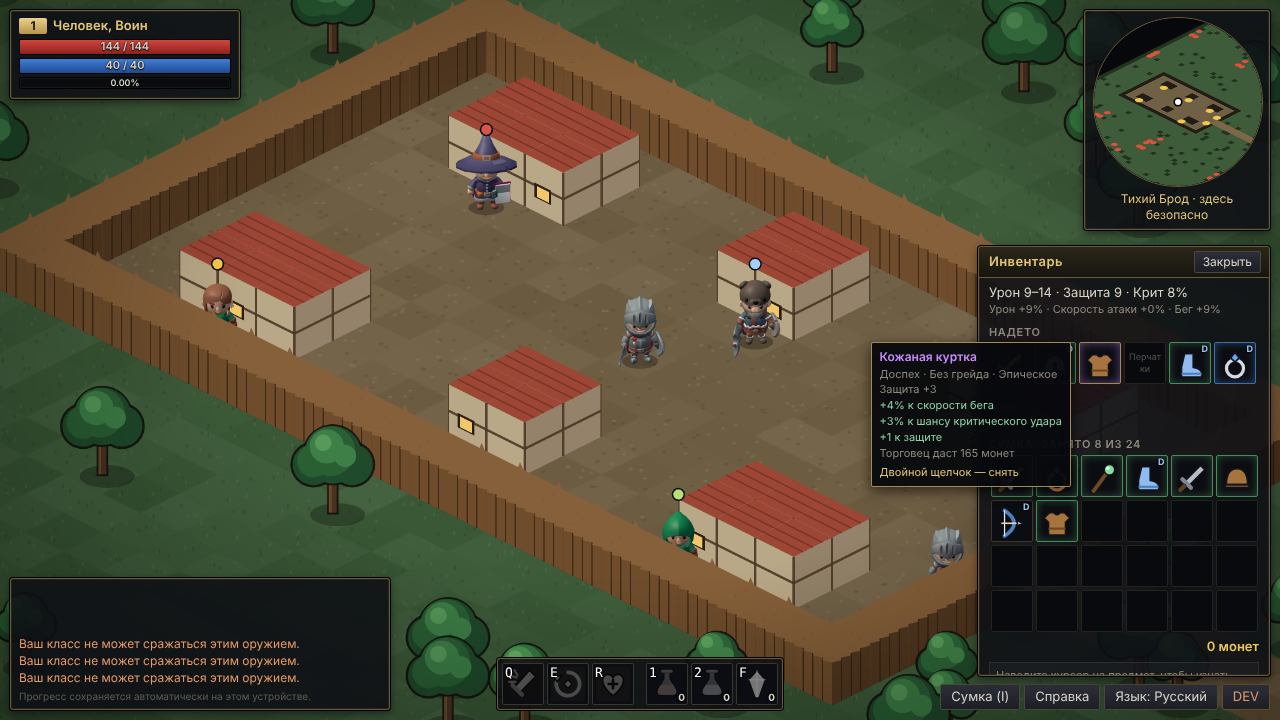
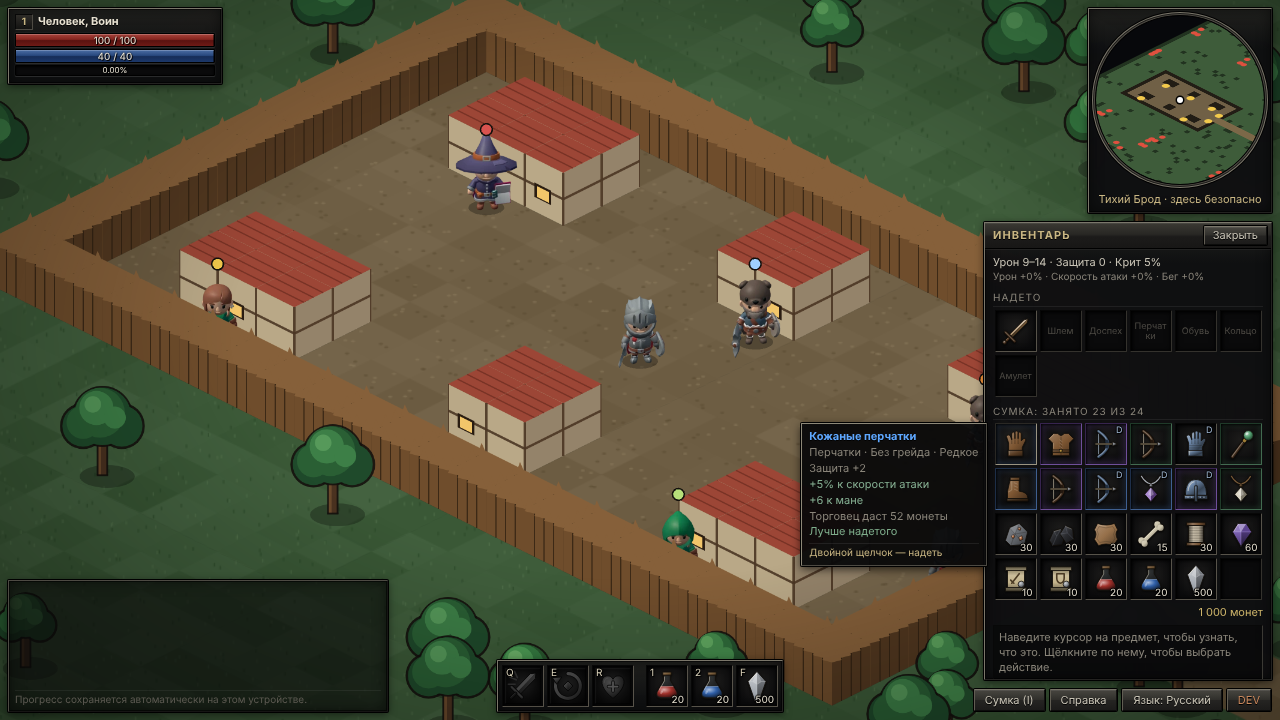
Document the reworked combat and world; refresh screenshots
Claude-Session: https://claude.ai/code/session_01VPfyaqrToSW6rDgFzHRfny

diff --git a/src/sim/balance.ts b/src/sim/balance.ts
@@ -13,7 +13,7 @@ export const WORLD_SEED = 20261;
 export const WORLD_WIDTH = 124;
 export const WORLD_HEIGHT = 84;
 /** How many monsters live in each region of the open world. */
-export const REGION_MONSTERS = { pasture: 40, moor: 46, hollow: 42, thicket: 34 } as const;
+export const REGION_MONSTERS = { pasture: 40, moor: 46, hollow: 42, thicket: 28 } as const;
 /** No two monsters make their home closer than this. */
 export const MONSTER_SPACING = 2.4;
 export const DUNGEON_SIZE = 24;

diff --git a/docs/GDD.md b/docs/GDD.md
@@ -42,14 +42,26 @@
     надетые шлем, доспех и обувь.
 - **Охота на монстров — центр игры.** Опыт, монеты, ресурсы и вещи приходят с монстров,
   поэтому бить их должно быть приятно и опасно:
-  - Звери живут **стаями** (волки по трое, кабаны по двое). Заметивший героя зовёт стаю
-    и всех, кто рядом; откликнувшиеся дальше тревогу не передают. Одна стая — посильно,
-    две сразу — на грани смерти.
-  - Обычный удар монстра не сбивает; сбивает только **критический** (кроме матёрых).
-  - Здоровье вне деревни восстанавливается медленно: между стаями нужны зелья или отдых.
+  - **Обычный удар бьёт одну цель** — ближайшую в секторе. Толпу рубят только умения
+    по площади. Пока герой бьёт, он идёт вдвое медленнее: либо драться, либо бежать.
+  - **Монстр преследует во время замаха**, поэтому шаг в сторону от удара не спасает.
+    Волки быстрее героя — от них не убежать; кабаны медленнее.
+  - **Монстры стоят поодиночке на разном расстоянии и бродят** вокруг своего места.
+    Сколько придёт на бой, зависит от того, кого и где тронуть:
+    - у каждого вида свой нрав: молодые волки и кабаны мирные, пока не ударишь;
+      волки и секачи нападают первыми;
+    - тот, кто заметил героя или получил удар, зовёт сородичей в пределах слышимости
+      (у каждого вида своя); откликнувшиеся дальше не зовут. Секач — одиночка.
+  - Критический удар сбивает замах монстра (кроме матёрых).
+  - Здоровье вне боя возвращается за минуту-полторы; в бою — только зельями.
   - **Матёрые** монстры (около 6%, заново разыгрывается при возрождении): втрое живучее,
     бьют в полтора раза сильнее, дают вчетверо больше опыта, втрое больше монет, две
-    попытки добычи и лучшие шансы на качество.
+    попытки добычи и лучшие шансы на качество. Нападают первыми, какого бы вида ни были.
+  - **Мастерство охоты.** Убийства считаются по видам. На 10, 50, 200 и 1000 убийств
+    вида — ступень: +5% урона по нему и выше шанс его трофея. Счёт показывает охотник.
+  - **Трофеи.** У каждого вида есть своя уникальная вещь с постоянными свойствами,
+    которая не падает больше ни с кого: 3–5 шансов из 1000 с обычного, 12–15 из 100
+    с матёрого.
   - Полоса опыта показывает проценты до сотых, каждое убийство пишет «Получено опыта».
 - **Каждая вещь — своя.** У выпавшей или скрафченной экипировки разыгрываются:
   - **качество**: обычное (60%), добротное (28%), редкое (10%), эпическое (2%) — прибавка
@@ -70,13 +82,16 @@
   - **Тихий Брод** — деревня за частоколом: безопасно, монстры сюда не заходят, здоровье
     и мана быстро восстанавливаются, сюда герой попадает после гибели. Жители: алхимик,
     оружейник, кузнец, наставник воинов и два стражника у ворот.
-  - **Вересковая пустошь** (монстры 1–2-го уровня) — волки вокруг деревни.
-  - **Кабаний лог** (монстры 3–5-го уровня) — кабаны; отделён от пустоши полосой леса с
-    тремя проходами, один из них — по дороге.
-  - От ворот деревни через оба региона идёт дорога ко входу в **Старые копи**.
+  - **Приречный луг** (1-й уровень) — берег реки со стороны деревни; мирные молодые волки.
+  - **Вересковая пустошь** (2–3) — за рекой на севере: волки, валуны, каменный круг, озерцо.
+  - **Кабаний лог** (3–5) — за рекой на юге: кабаны, большое озеро.
+  - **Секачья чаща** (5–7) — тёмный ельник на востоке: секачи, руины старого зала, вход в копи.
+  - Реку переходят по дороге или по двум бродам. Границы регионов, дорога и берега
+    нигде не идут по прямой; форма мира задана шумом от координат (`src/sim/noise.ts`).
+  - От ворот деревни дорога петляет через весь мир ко входу в **Старые копи**.
 - Уровни монстров открытого мира заданы регионом и не подстраиваются под героя: чем
   дальше от деревни, тем опаснее.
-- Монстры открытого мира возрождаются на своих местах через 25 секунд после гибели и
+- Монстры открытого мира возрождаются на своих местах через 30 секунд после гибели и
   бросают погоню, если увести их далеко от места: возвращаются и восстанавливают
   здоровье.
 - **Старые копи** — отдельное подземелье (вход и выход — клавиша T у светящегося
@@ -199,7 +214,10 @@
 - [x] Этап 8: крафт — ресурсы, рецепты, цепочки
 - [x] Этап 9: расы и классы (2 расы, 3 класса), дальний бой, охотник и таблицы добычи
 - [x] Гринд: стаи, матёрые монстры, качество и случайные свойства вещей, криты, новые слоты
-- [ ] Форма локаций: неквадратные регионы, поляны, тропы, ориентиры
+- [x] Бой без кайта, агр по нраву и слышимости, мастерство охоты и трофеи
+- [x] Форма локаций: извилистые границы, река с бродами, озёра, леса с полянами, валуны, каменный круг, руины, петляющая дорога; четыре региона
+- [x] Интерфейс и иконки в сдержанной манере, приглушённая палитра мира
+- [ ] Подземелье той же выделки (пещеры вместо квадратного зала)
 - [ ] Баланс и экономика: отчёт по классам и регионам, настройка чисел
 - [ ] Больше экипировки: тяжёлая, лёгкая, мантии; комплекты по классам
 - [ ] Новые регионы и расширение деревни
